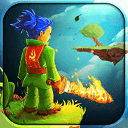
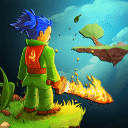
Updated Livearea assets (Thanks to BetterWinds).

diff --git a/README.md b/README.md
@@ -81,3 +81,4 @@ cmake .. && make
 
 - TheFloW for the original .so loader.
 - CatoTheYounger for the screenshots and for testing the homebrew.
+- BetterWinds for the Livearea assets.
